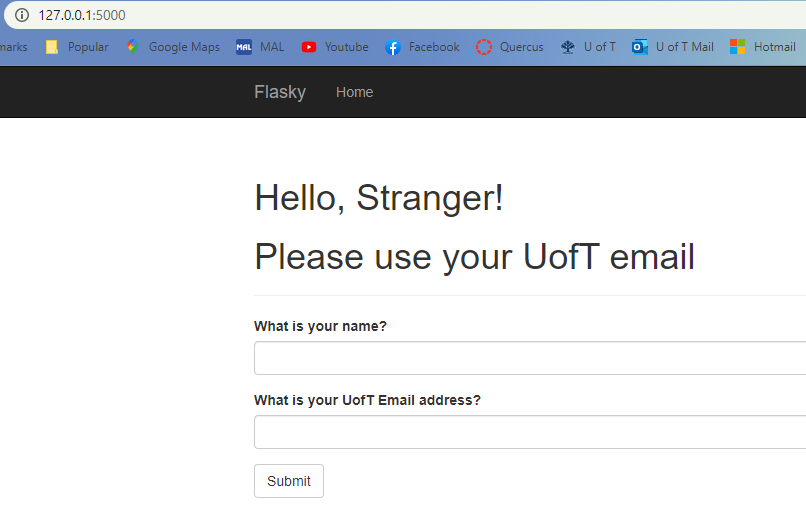
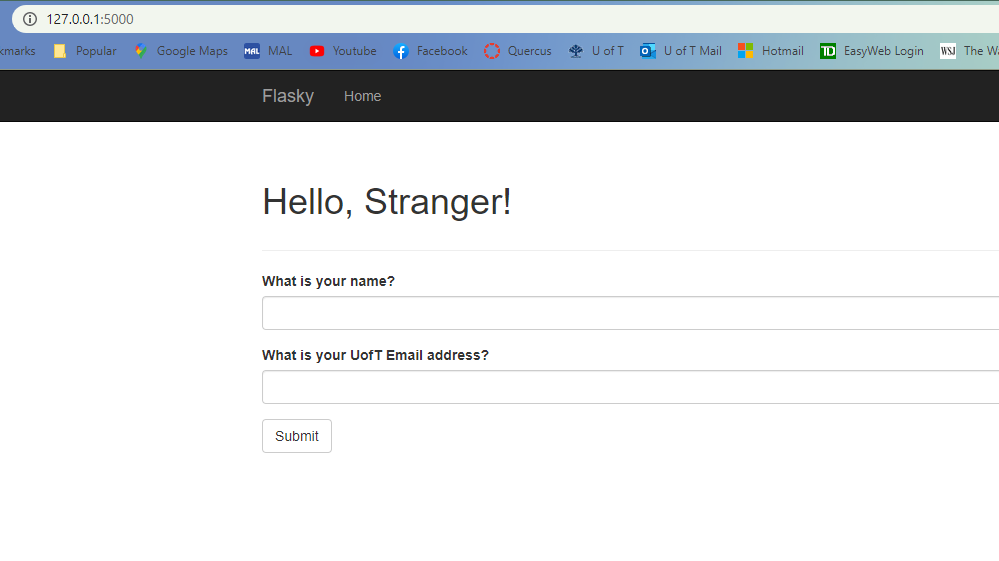
fixed initial site visit, displayed Please use UofT email immediately, now only displays if incorrect email used

diff --git a/templates/index.html b/templates/index.html
@@ -5,7 +5,12 @@
 {% block page_content %}
 <div class="page-header">
 	<h1>Hello, {% if name %}{{ name }}{% else %}Stranger{% endif %}!</h1>
-	<h1>{% if email %}Your UofT email is {{ email }}{% else %}Please use your UofT email{% endif %}</h1>
+	<h1>{% if email %}
+			{{ email }}
+		{% else %} 
+			
+		{% endif %}
+	</h1>
 </div>
 {{ wtf.quick_form(form) }}
 {% endblock %}

diff --git a/hello.py b/hello.py
@@ -9,11 +9,12 @@ from wtforms.validators import Required, Email
 app = Flask(__name__)
 bootstrap = Bootstrap(app)
 moment = Moment(app)
-app.config['SECRET_KEY'] = 'hard to guess string!'
+app.config['SECRET_KEY'] = 'hard to guess string'
 
 @app.route('/', methods=['GET', 'POST'])
 def index():
     form = NameForm()
+    
     if form.validate_on_submit():
         old_name = session.get('name')
         old_email = session.get('email')
@@ -23,11 +24,12 @@ def index():
         if old_email is not None and old_email != form.email.data:
             flash('Looks like you have changed your email!')
         if(form.email.data.find('utoronto') != -1):
-            session['email'] = form.email.data
+            session['email'] = 'Your UofT email is '+form.email.data
         else:
-            session['email'] = ''
+            session['email'] = 'Please use your Uoft email.'
+
         return redirect(url_for('index'))
-    return render_template('index.html', form = form, name = session.get('name'), email = session.get('email'))
+    return render_template('index.html', form = form, name = session.get('name'), email = session.get('email'), wrong_email = session.get('wrong_email'))
     
 @app.route('/user/<name>')
 def user(name):
